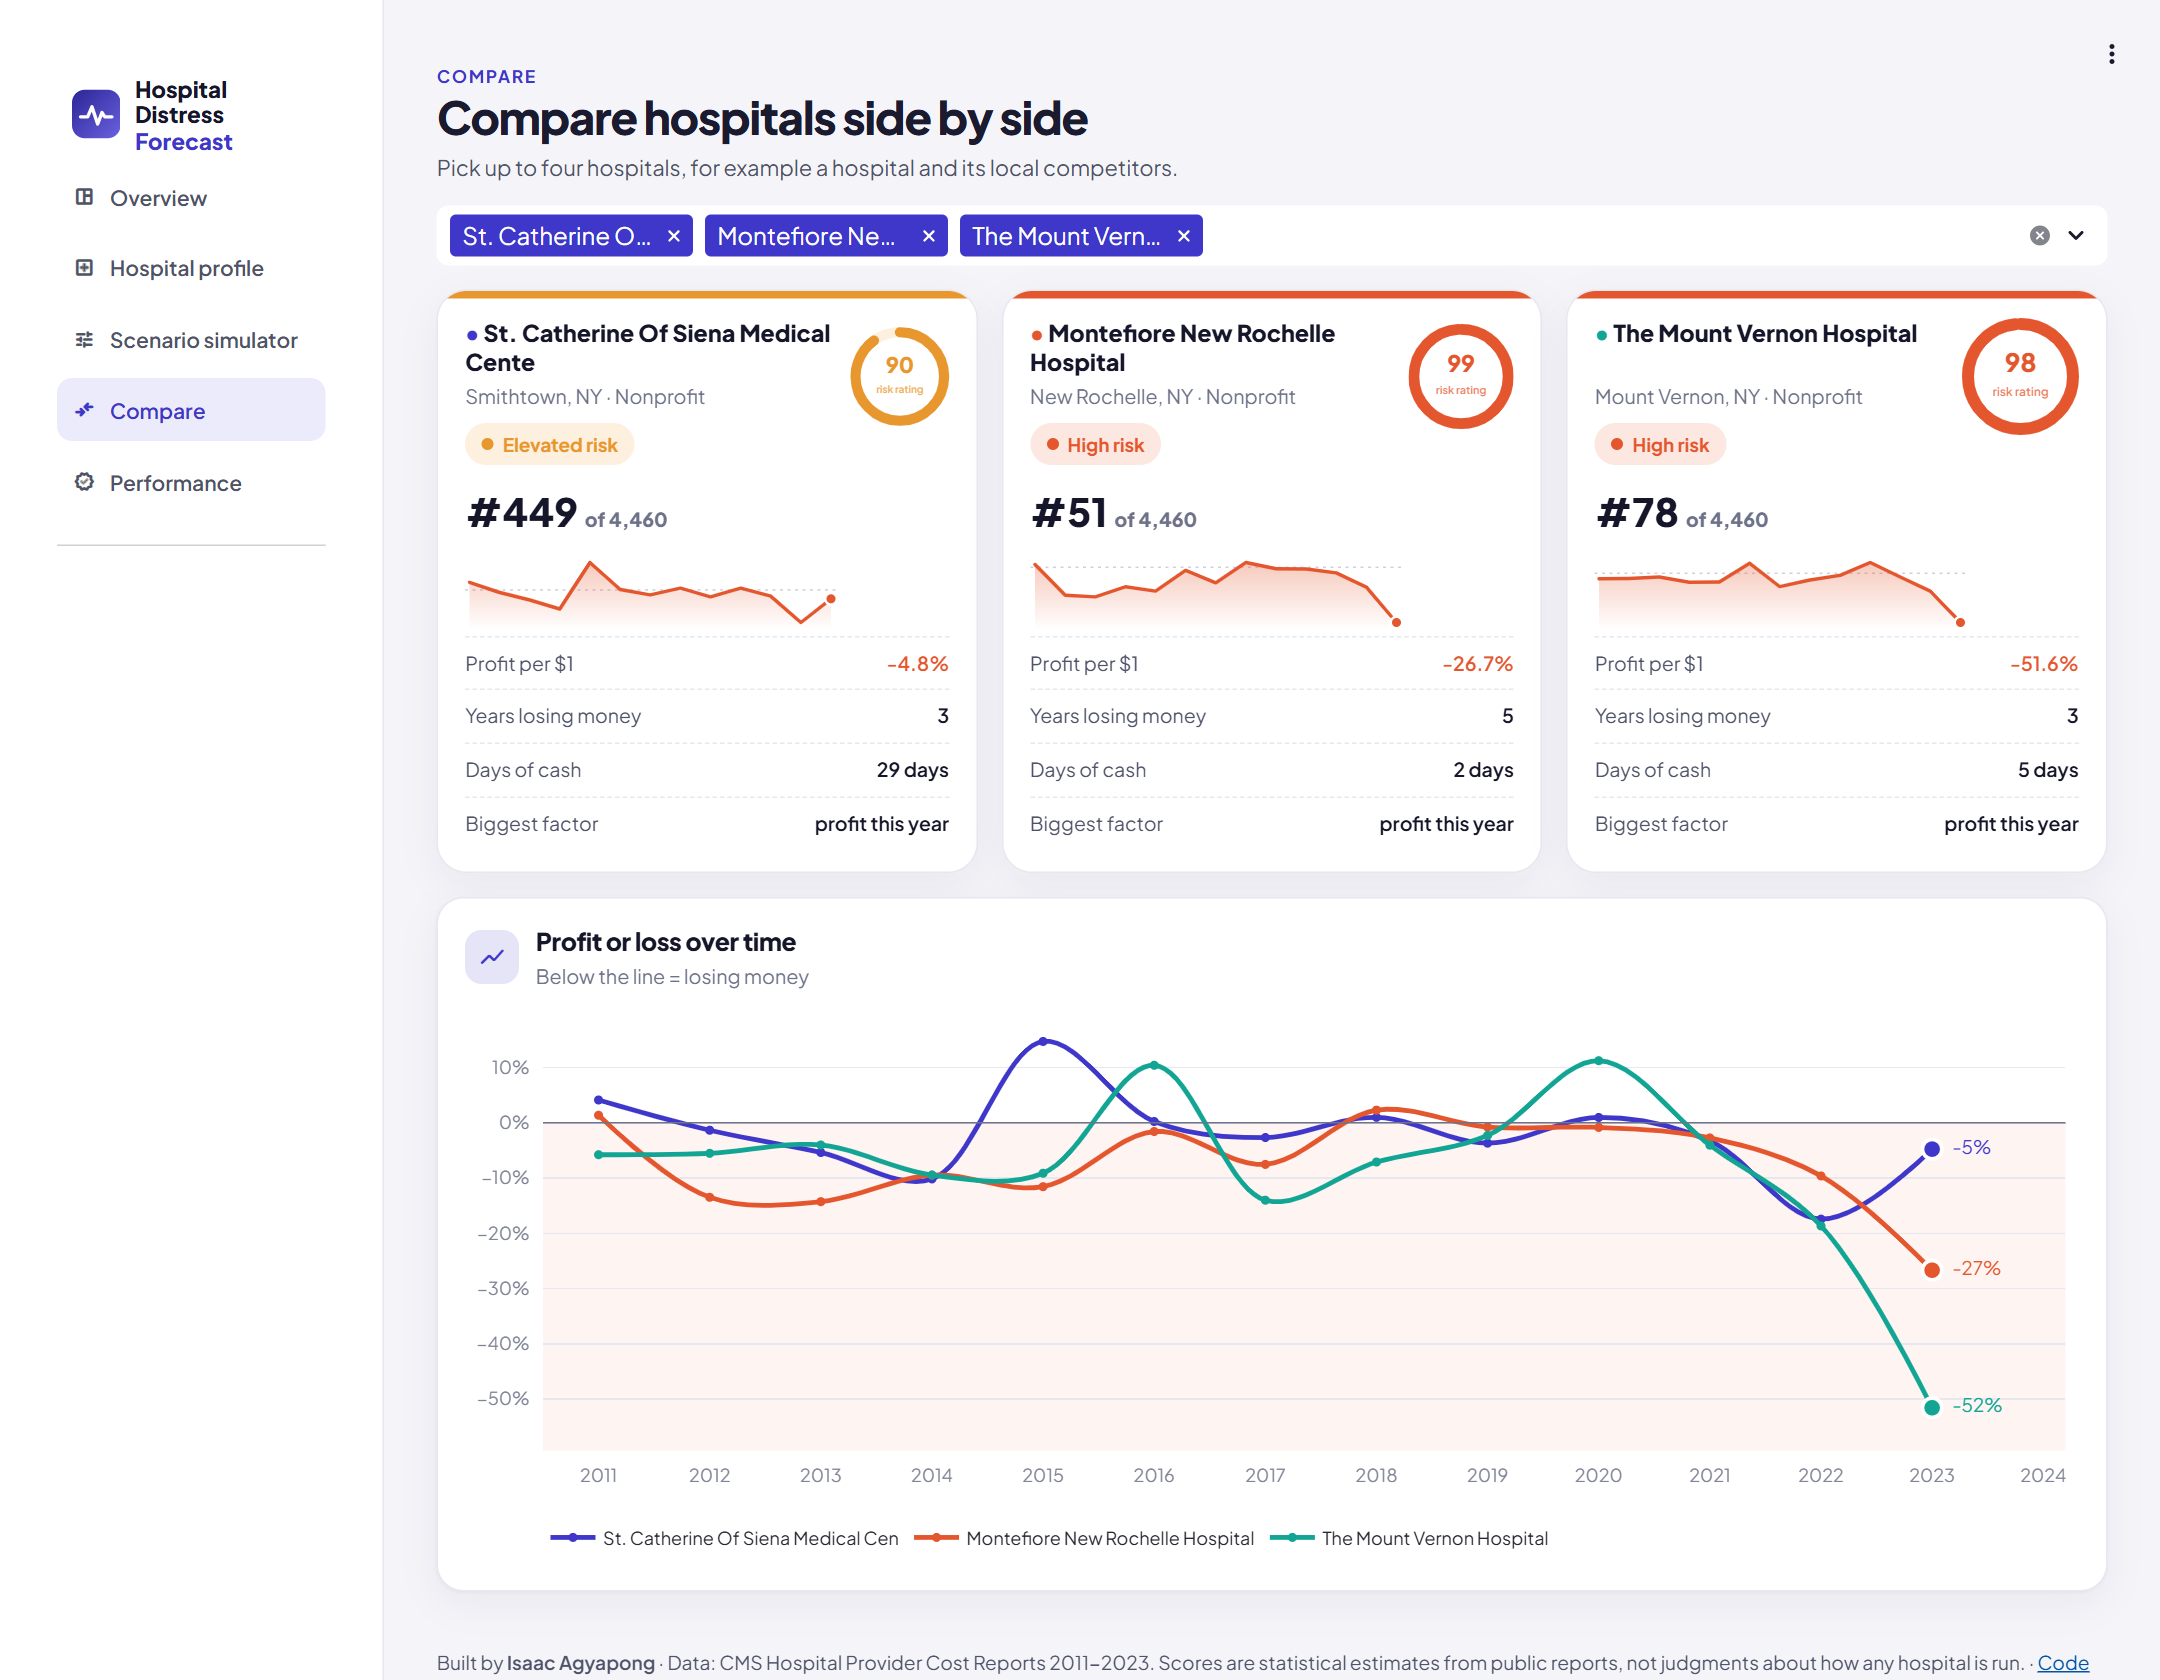
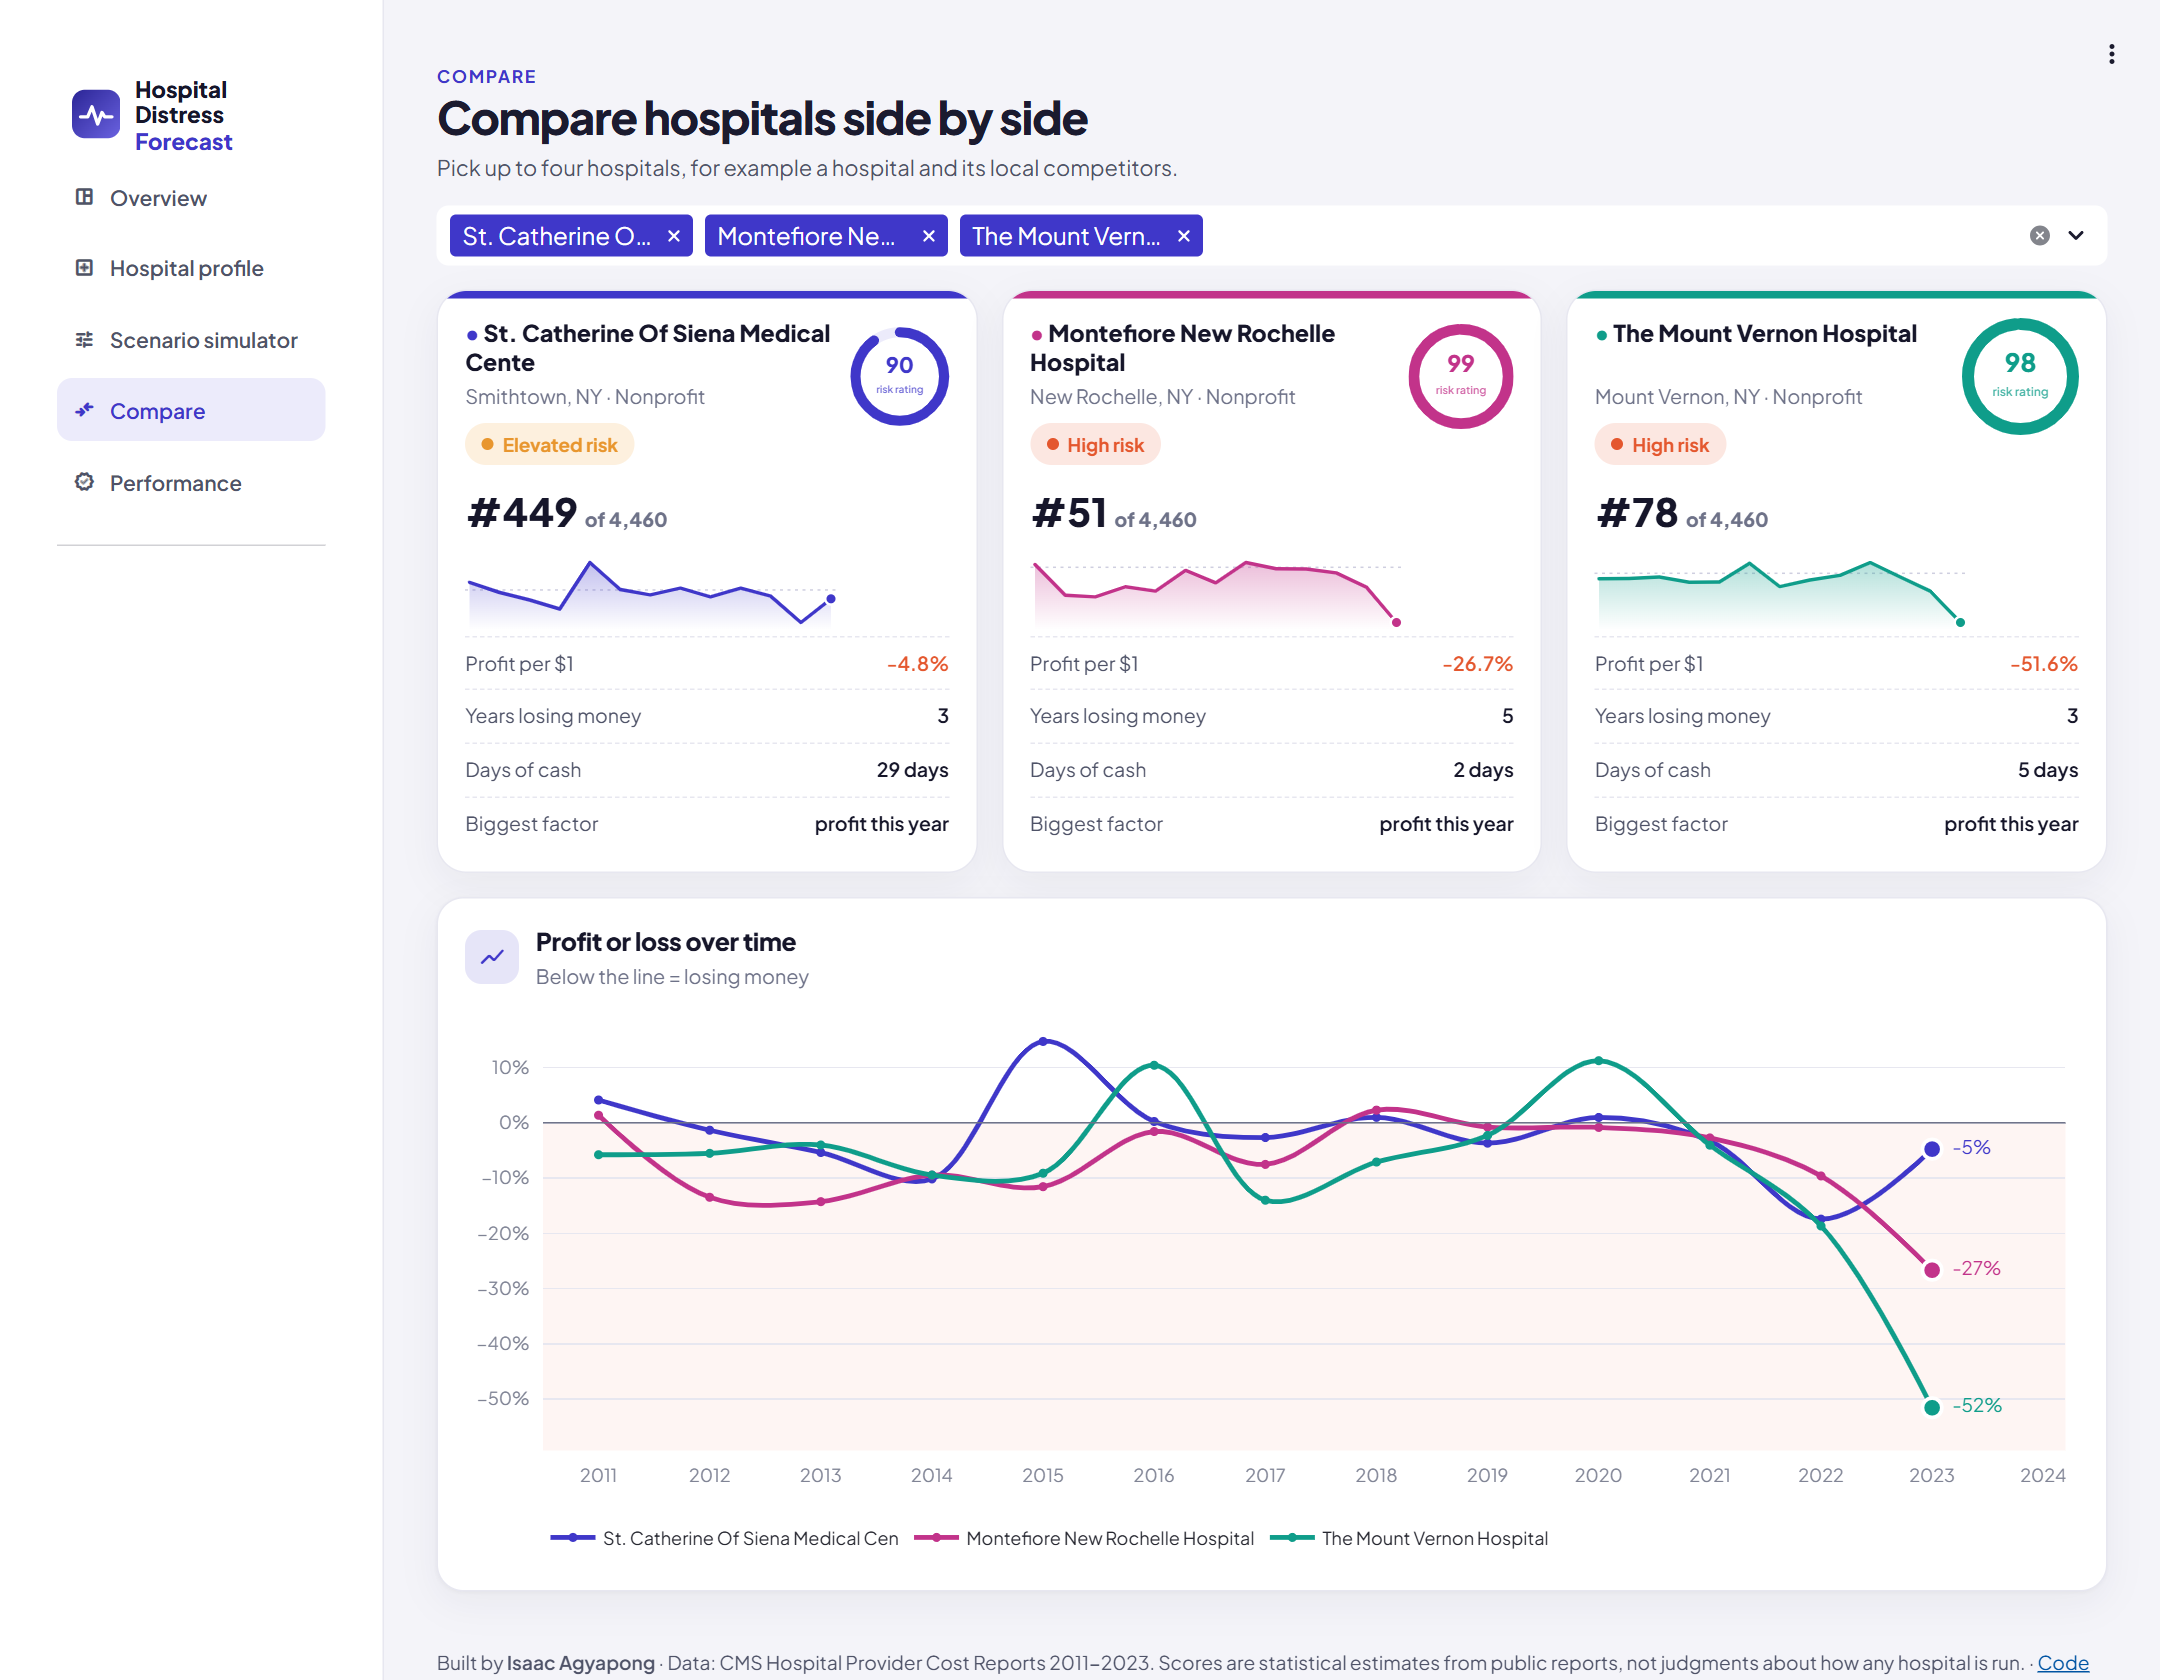
Compare: one identity colour per hospital across card and chart

diff --git a/app/app.py b/app/app.py
@@ -967,20 +967,21 @@ def compare():
         return
     d = SCORES.set_index("label").loc[picks].reset_index()
     cols = st.columns(len(d))
-    palette = [INDIGO, CORAL, TEAL, AMBER]
+    palette = [INDIGO, "#C2338A", "#0F9D8A", "#2B8CD6"]    # one identity colour per hospital (not risk colours)
+    tint = ["#ECEBFB", "#F9E3EF", "#DDF3EF", "#DFEEFA"]
     for i, (col, (_, h)) in enumerate(zip(cols, d.iterrows())):
         lc = LEVEL_COLOUR[h.risk_level]
         hh = HIST[HIST.ccn == h.ccn].sort_values("fiscal_year")
         with col:
-            html(f"""<div class="cmp" style="--c:{lc};animation-delay:{0.08 * i:.2f}s">
+            html(f"""<div class="cmp" style="--c:{palette[i]};animation-delay:{0.08 * i:.2f}s">
                 <div style="display:flex;justify-content:space-between;gap:10px;align-items:flex-start">
                 <div><div class="cmp-name"><span style="color:{palette[i]}">●</span> {h["name"]}</div>
                 <div class="muted" style="margin:2px 0 8px 0">{h.city}, {h.state_abbrev} · {h.ownership}</div>{badge(h.risk_level)}</div>
-                {ring_svg(h.percentile, lc, size=78, stroke=8, text=f"{h.percentile:.0f}", sub="risk rating",
-                          track=LEVEL_BG[h.risk_level])}</div>
+                {ring_svg(h.percentile, palette[i], size=78, stroke=8, text=f"{h.percentile:.0f}", sub="risk rating",
+                          track=tint[i])}</div>
                 <div style="font-size:26px;font-weight:800;color:{INK};margin:10px 0 2px 0">#{int(h.risk_rank):,}
                 <span class="muted" style="font-size:13px">of {N:,}</span></div>
-                <div style="margin:6px 0 4px 0">{spark_svg(hh.total_margin.values, CORAL if h.total_margin < 0 else TEAL, w=250, h=52)}</div>
+                <div style="margin:6px 0 4px 0">{spark_svg(hh.total_margin.values, palette[i], w=250, h=52)}</div>
                 <div class="cmp-row"><span>Profit per $1</span><b style="color:{CORAL if h.total_margin < 0 else TEAL}">{100 * h.total_margin:.1f}%</b></div>
                 <div class="cmp-row"><span>Years losing money</span><b>{int(h.loss_streak)}</b></div>
                 <div class="cmp-row"><span>Days of cash</span><b>{show_value("days_cash_on_hand", h.days_cash_on_hand)}</b></div>
